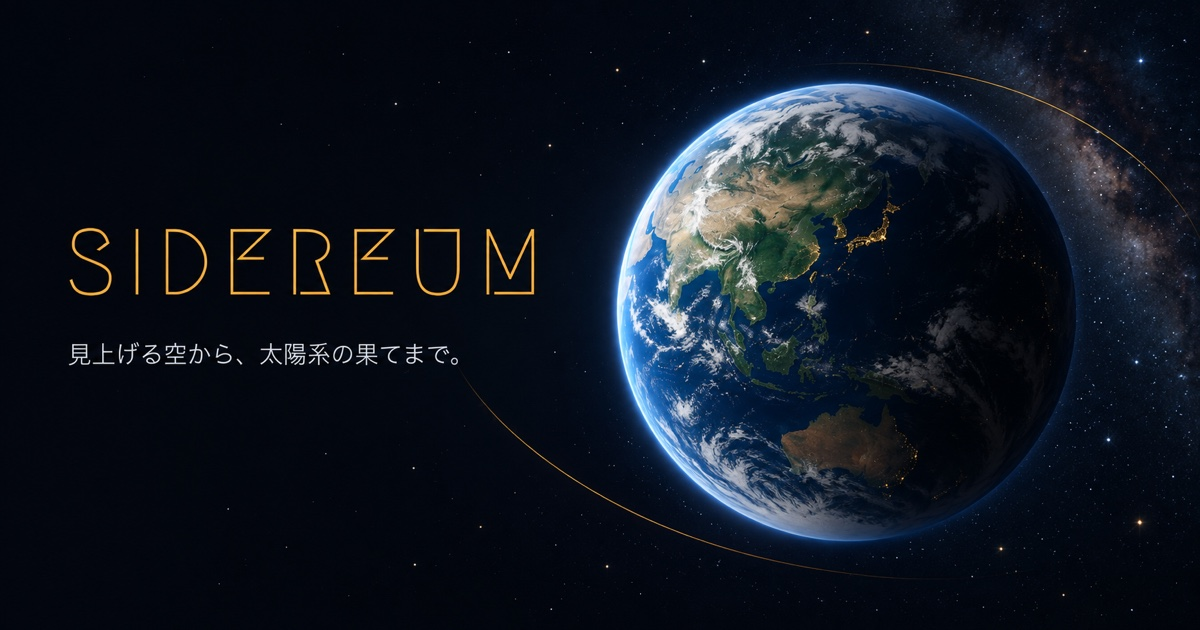
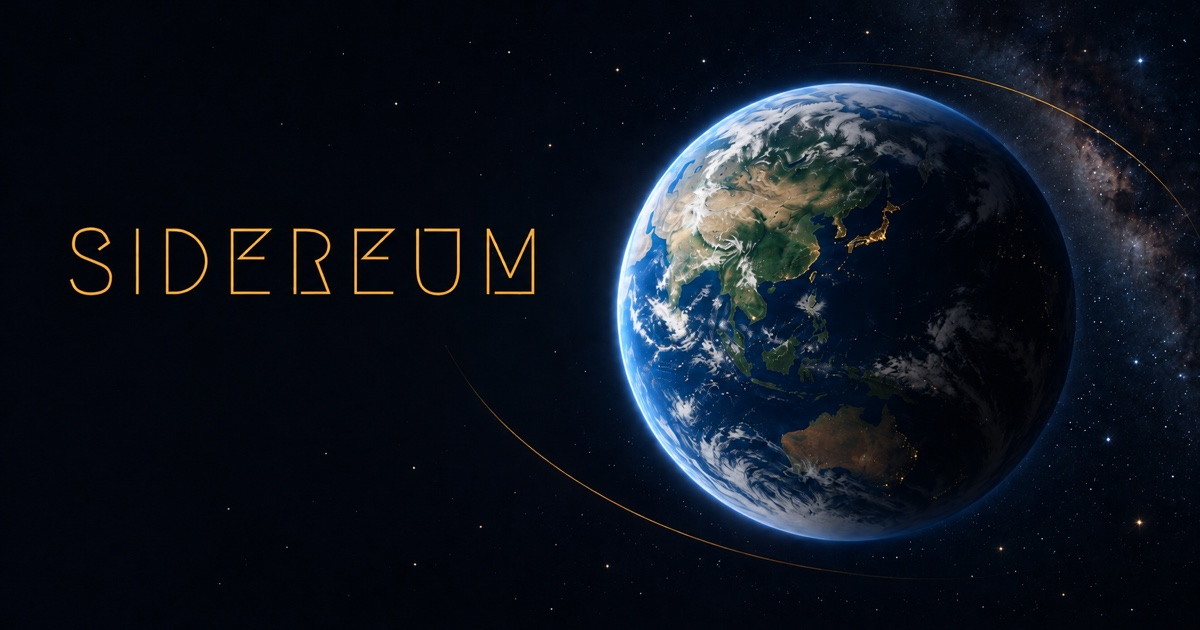
OGP画像のキャッチコピーを削除

diff --git a/index.html b/index.html
@@ -25,7 +25,7 @@
 <meta property="og:image:type" content="image/jpeg">
 <meta property="og:image:width" content="1200">
 <meta property="og:image:height" content="630">
-<meta property="og:image:alt" content="金色のSIDEREUMロゴと、青い地球・星空を描いたイメージ。見上げる空から、太陽系の果てまで。">
+<meta property="og:image:alt" content="金色のSIDEREUMロゴと、青い地球・星空を描いたイメージ。">
 <meta name="twitter:card" content="summary_large_image">
 <meta name="twitter:title" content="Sidereum — 見上げる空から、太陽系の果てまで">
 <meta name="twitter:description" content="星空や惑星、月面、探査機の旅を楽しめる無料のWebプラネタリウム。">

diff --git a/src/page.html b/src/page.html
@@ -23,7 +23,7 @@
 <meta property="og:image:type" content="image/jpeg">
 <meta property="og:image:width" content="1200">
 <meta property="og:image:height" content="630">
-<meta property="og:image:alt" content="金色のSIDEREUMロゴと、青い地球・星空を描いたイメージ。見上げる空から、太陽系の果てまで。">
+<meta property="og:image:alt" content="金色のSIDEREUMロゴと、青い地球・星空を描いたイメージ。">
 <meta name="twitter:card" content="summary_large_image">
 <meta name="twitter:title" content="Sidereum — 見上げる空から、太陽系の果てまで">
 <meta name="twitter:description" content="星空や惑星、月面、探査機の旅を楽しめる無料のWebプラネタリウム。">
